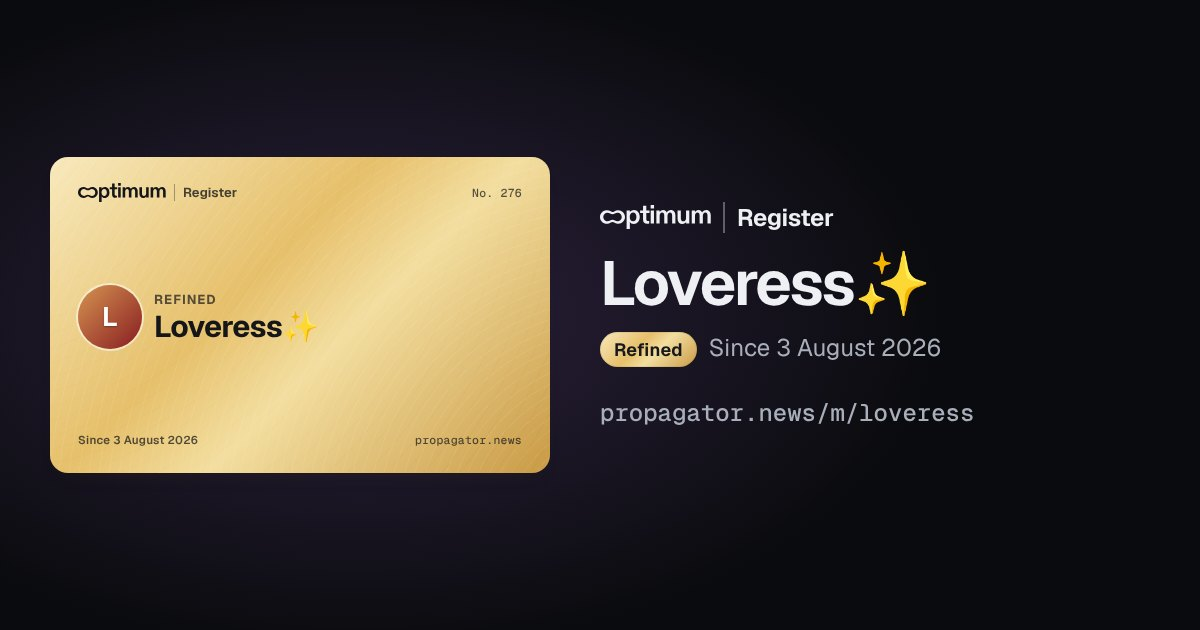
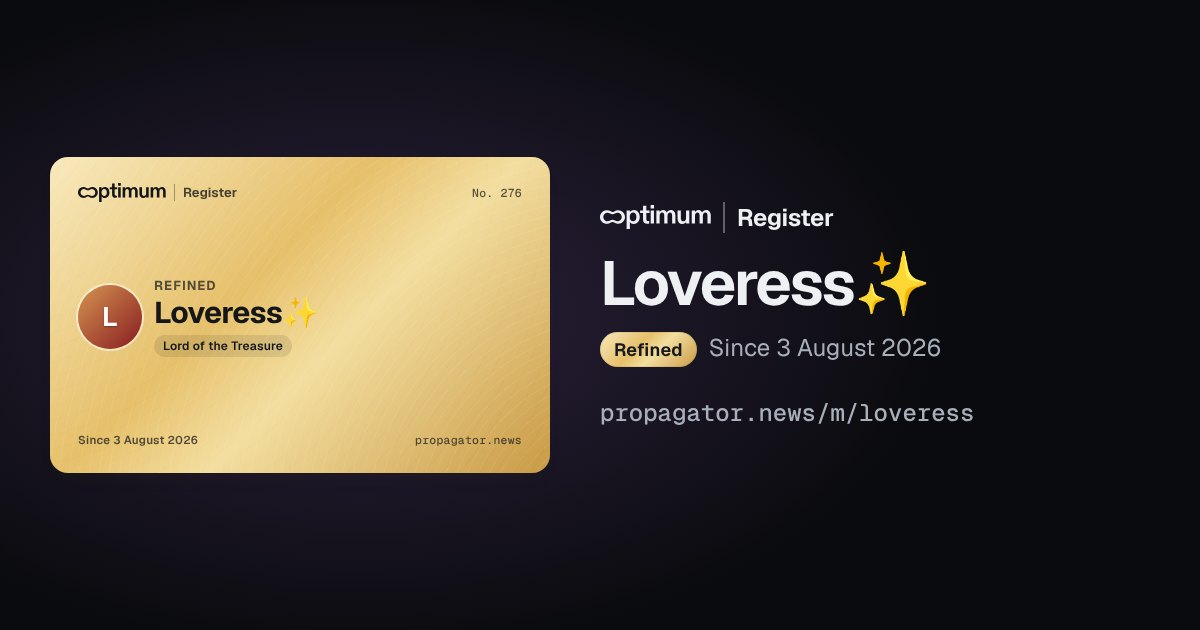
Lord of the Treasure badge on member cards and pages, back issue contribution labels

Changed region(s): [[0.1233, 0.4222, 0.2775, 0.573]]

diff --git a/public/assets/site.css b/public/assets/site.css
@@ -1021,3 +1021,12 @@ h1, h2, h3 { font-weight: 650; letter-spacing: -0.025em; }
 .bi-month small { font: 500 15px var(--sans); color: color-mix(in srgb, var(--bg) 72%, transparent); }
 .back-note { margin: 10px 0 0; font-size: 14px; color: var(--muted); max-width: 64ch; }
 .spot-noimg { grid-template-columns: 1fr; }
+
+/* Discord roles beyond the ladder */
+.cred-badges { display: flex; flex-wrap: wrap; gap: 4px; margin: 6px 0 0; }
+.cred-badges span { font: 600 10px/1 var(--sans); letter-spacing: .02em; padding: 4px 7px; border-radius: 999px; background: rgba(20, 21, 24, .1); color: inherit; }
+.cred-big .cred-badges span { font-size: 12px; padding: 5px 9px; }
+.mbadges { list-style: none; padding: 0; margin: 14px 0 0; display: flex; flex-wrap: wrap; gap: 8px; }
+.mbadges li { display: flex; flex-direction: column; gap: 2px; padding: 8px 12px; border-radius: 12px; box-shadow: 0 0 0 1px var(--line); background: var(--surface); }
+.mbadges b { font-size: 14px; }
+.mbadges span { font-size: 13px; color: var(--muted); }
